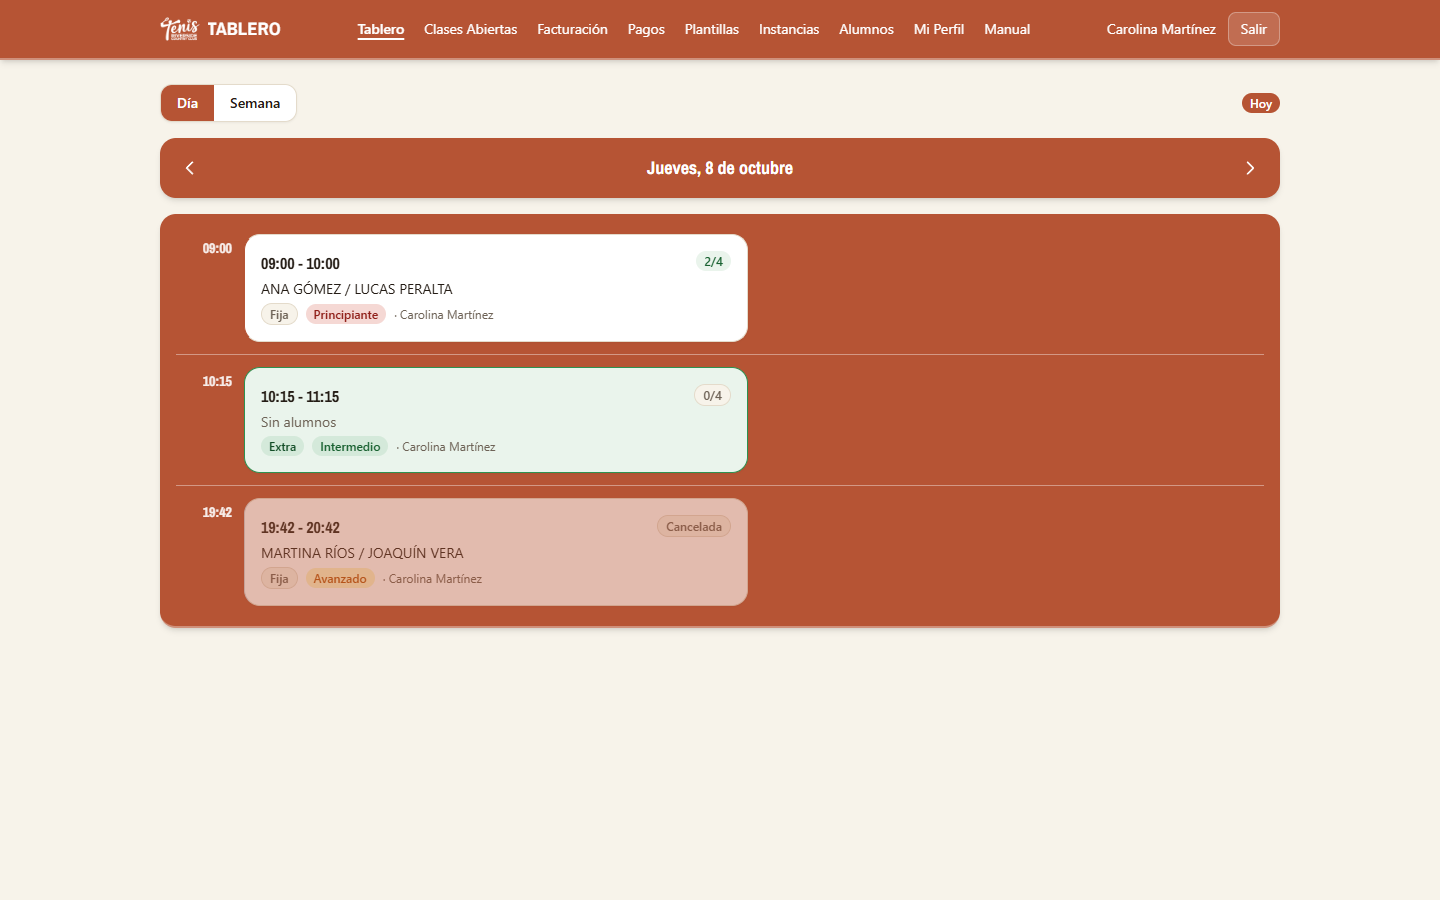
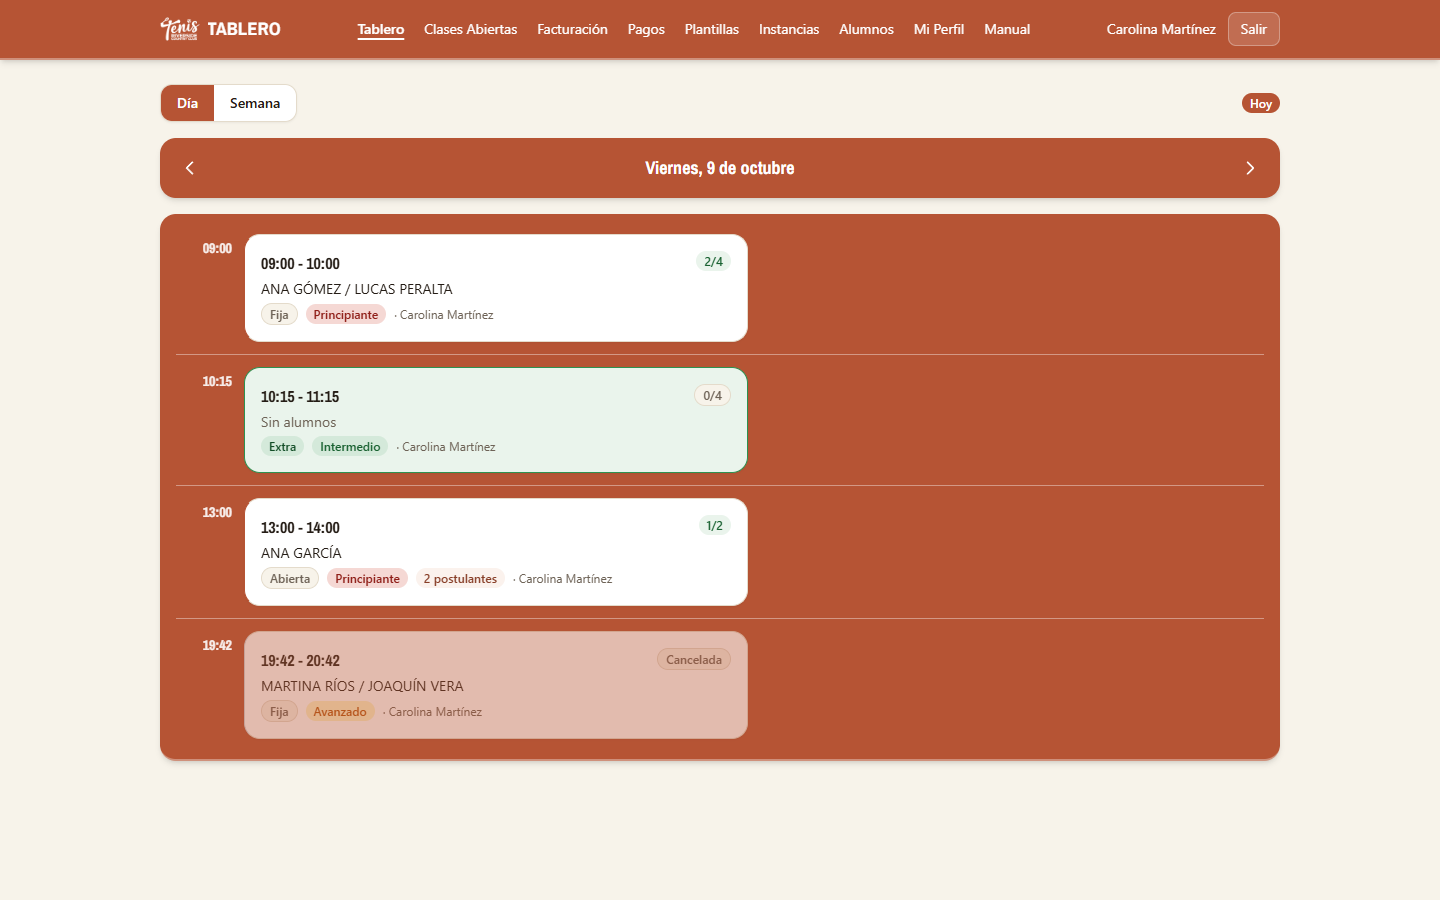
calendar

Changed region(s): [[0.0938, 0.5289, 0.9062, 0.8711], [0.4375, 0.1556, 0.5625, 0.2178]]

diff --git a/frontend/src/app/tablero/page.tsx b/frontend/src/app/tablero/page.tsx
@@ -21,6 +21,12 @@ interface Student {
   level: string | null;
 }
 
+interface PendingCandidate {
+  postulation_id: number;
+  student_id: number;
+  full_name: string;
+}
+
 interface Instance {
   id: number;
   template_id: number;
@@ -35,6 +41,7 @@ interface Instance {
   price: string;
   status: string;
   students: Student[];
+  pending?: PendingCandidate[];
 }
 
 const WEEKDAYS = ['Lunes', 'Martes', 'Miércoles', 'Jueves', 'Viernes', 'Sábado', 'Domingo'];
@@ -88,7 +95,7 @@ export default function TableroPage() {
   const [loading, setLoading] = useState(true);
   const [error, setError] = useState('');
   const [selectedInstance, setSelectedInstance] = useState<Instance | null>(null);
-  const [sheetView, setSheetView] = useState<'options' | 'students' | 'add'>('options');
+  const [sheetView, setSheetView] = useState<'options' | 'students' | 'add' | 'candidates'>('options');
   const [allStudents, setAllStudents] = useState<Student[]>([]);
   const [selectedStudentToAdd, setSelectedStudentToAdd] = useState('');
   const touchStartX = useRef<number | null>(null);
@@ -201,6 +208,37 @@ export default function TableroPage() {
     }
   };
 
+  // Issue 17: aceptar / rechazar / forzar un postulante desde el calendario
+  const handleCandidateAction = async (
+    postulationId: number,
+    action: 'accept' | 'reject' | 'override'
+  ) => {
+    if (!selectedInstance) return;
+    if (action !== 'reject' && !confirm('¿Confirmar la decisión sobre este postulante?')) return;
+
+    try {
+      const apiUrl = process.env.NEXT_PUBLIC_API_URL || '';
+      const res = await fetch(
+        `${apiUrl}/api/instances/open/${selectedInstance.id}/candidates/${postulationId}/${action}`,
+        {
+          method: 'POST',
+          headers: { 'Content-Type': 'application/json' },
+          credentials: 'include'
+        }
+      );
+      const data = await res.json();
+      if (!res.ok) {
+        alert(data.error || 'Error al responder la postulación');
+        return;
+      }
+      alert(data.message || 'Listo');
+      closeSheet();
+      fetchData(selectedDate, view);
+    } catch (err) {
+      alert('Error de conexión');
+    }
+  };
+
   const onTouchStart = (e: React.TouchEvent) => {
     touchStartX.current = e.touches[0].clientX;
   };
@@ -297,6 +335,8 @@ export default function TableroPage() {
     instancesByHour[instance.start_hour].push(instance);
   }
 
+  const pendingCount = (instance: Instance) => instance.pending?.length ?? 0;
+
   // Borde de tarjeta = cupo. Extras (lote 3): contorno verde uniforme por rama
   // propia en el render; acá solo cupo/cancelada.
   const cupoColor = (instance: Instance) => {
@@ -356,6 +396,11 @@ export default function TableroPage() {
             {MODALITIES[instance.modality] || instance.modality}
           </span>
           <LevelChip level={instance.level} />
+          {pendingCount(instance) > 0 && instance.status !== 'cancelada' && (
+            <span className="chip bg-primary-50 text-primary-700 font-semibold">
+              {pendingCount(instance)} postulante{pendingCount(instance) > 1 ? 's' : ''}
+            </span>
+          )}
           {instance.professor_name && (
             <span className="text-xs text-muted">· {instance.professor_name}</span>
           )}
@@ -498,6 +543,11 @@ export default function TableroPage() {
                           <span className={`ml-2 chip ${badge.className}`}>
                             {badge.text}
                           </span>
+                          {pendingCount(instance) > 0 && instance.status !== 'cancelada' && (
+                            <span className="ml-2 chip bg-primary-50 text-primary-700 font-semibold">
+                              {pendingCount(instance)} post.
+                            </span>
+                          )}
                         </button>
                       );
                     })}
@@ -609,12 +659,71 @@ export default function TableroPage() {
                   </button>
                 </form>
               </div>
+            ) : sheetView === 'candidates' ? (
+              <div>
+                <button
+                  onClick={() => setSheetView('options')}
+                  className="flex items-center gap-1 text-sm text-polvo font-semibold mb-3 hover:underline"
+                >
+                  <ChevronLeft className="w-4 h-4" />
+                  Volver
+                </button>
+                <p className="font-semibold mb-2">
+                  Postulantes ({selectedInstance.pending?.length ?? 0})
+                </p>
+                {(selectedInstance.pending?.length ?? 0) === 0 ? (
+                  <p className="text-sm text-muted">No hay postulaciones pendientes.</p>
+                ) : (
+                  <ul className="space-y-2">
+                    {(selectedInstance.pending || []).map((c) => (
+                      <li key={c.postulation_id} className="bg-cal rounded-xl p-3 border border-line">
+                        <p className="text-sm font-semibold">{c.full_name}</p>
+                        <p className="text-xs text-muted mb-2">Esperando confirmación</p>
+                        <div className="flex gap-2 flex-wrap">
+                          <button
+                            onClick={() => handleCandidateAction(c.postulation_id, 'accept')}
+                            className="bg-green-600 text-white text-xs font-semibold px-3 py-2.5 rounded hover:bg-green-700"
+                          >
+                            Aceptar
+                          </button>
+                          <button
+                            onClick={() => handleCandidateAction(c.postulation_id, 'reject')}
+                            className="bg-red-500 text-white text-xs font-semibold px-3 py-2.5 rounded hover:bg-red-600"
+                          >
+                            Rechazar
+                          </button>
+                          {selectedInstance.students.length >= selectedInstance.max_students && (
+                            <button
+                              onClick={() => handleCandidateAction(c.postulation_id, 'override')}
+                              title="Forzar aceptación a pesar de cupo lleno"
+                              className="bg-ink text-white text-xs font-semibold px-3 py-2.5 rounded hover:bg-black"
+                            >
+                              Forzar
+                            </button>
+                          )}
+                        </div>
+                      </li>
+                    ))}
+                  </ul>
+                )}
+              </div>
             ) : (
               <div className="space-y-2">
+                {selectedInstance.status === 'programada' &&
+                  (selectedInstance.pending?.length ?? 0) > 0 && (
+                    <button
+                      onClick={() => setSheetView('candidates')}
+                      className="w-full btn-primary py-3 text-sm"
+                    >
+                      Ver postulantes ({selectedInstance.pending?.length ?? 0})
+                    </button>
+                  )}
                 <button
                   onClick={() => setSheetView('students')}
                   className={
-                    selectedInstance.status === 'cancelada'
+                    selectedInstance.status === 'cancelada' ||
+                    (selectedInstance.status === 'programada' &&
+                      (selectedInstance.pending?.length ?? 0) > 0)
                       ? 'w-full text-left px-4 py-3 rounded-xl bg-cal hover:bg-line/60 text-sm font-medium'
                       : 'w-full btn-primary py-3 text-sm'
                   }

diff --git a/backend/src/services/instances.js b/backend/src/services/instances.js
@@ -35,6 +35,43 @@ async function attachStudents(rows) {
   return rows;
 }
 
+// Postulaciones pendientes por instancia (issue 17): el tablero le muestra al profe
+// que hay postulantes esperando confirmación y puede aceptarlos desde el calendario.
+// Va solo en enrichInstancesWithStudents (NO en attachStudents, para no pisar el
+// contador pending_candidates que /open calcula en su propio SELECT).
+async function attachPendingCandidates(rows) {
+  if (rows.length === 0) return rows;
+
+  const instanceIds = rows.map((r) => r.id);
+  const placeholders = instanceIds.map(() => '?').join(',');
+
+  const [links] = await db.query(
+    `SELECT p.instancia_id, p.id as postulation_id, a.id as student_id, a.nombre_completo as full_name
+     FROM postulaciones p
+     JOIN perfiles a ON p.alumno_id = a.id
+     WHERE p.instancia_id IN (${placeholders}) AND p.estado = 'pendiente'
+     ORDER BY p.postulada_en ASC`,
+    instanceIds
+  );
+
+  const pendingByInstance = {};
+  for (const link of links) {
+    if (!pendingByInstance[link.instancia_id]) {
+      pendingByInstance[link.instancia_id] = [];
+    }
+    pendingByInstance[link.instancia_id].push({
+      postulation_id: link.postulation_id,
+      student_id: link.student_id,
+      full_name: link.full_name
+    });
+  }
+
+  for (const row of rows) {
+    row.pending = pendingByInstance[row.id] || [];
+  }
+  return rows;
+}
+
 // Enriquecer instancias con sus alumnos (y profesor). Reutilizado por tablero e instancias.
 async function enrichInstancesWithStudents(instances) {
   if (instances.length === 0) return [];
@@ -54,7 +91,8 @@ async function enrichInstancesWithStudents(instances) {
     status: inst.status
   }));
 
-  return attachStudents(mapped);
+  await attachStudents(mapped);
+  return attachPendingCandidates(mapped);
 }
 
 // Genera instancias para un mes dado (YYYY-MM) basándose en las plantillas activas.

diff --git a/CONTEXT.md b/CONTEXT.md
@@ -60,7 +60,7 @@ Sistema para una profesora de tenis que administra clases, inscripciones y deuda
 - **Clase abierta/rotativa (ticket 07)**: la profe crea la instancia **ad-hoc** (fecha, franja, nivel, cupo, precio) sin plantilla recurrente. Como `instancias_clases.plantilla_id` es `NOT NULL`, la instancia se respalda con una **plantilla inactiva** (nunca genera instancias recurrentes). La clase aparece en el tablero de la profe y en **"Clases disponibles"** del alumno.
 - **Postulación a clase abierta (tickets 07/09)**: el alumno se postula desde "Clases disponibles" → fila en `postulaciones` con estado `pendiente`; la profe acepta/rechaza (desarrollado en el ticket 09). El estado de la postulación se muestra al alumno en la tarjeta de la clase (Pendiente / Inscripto / Lleno).
 - **Valores ENUM en BD**: las modalidades se almacenan como `fija` / `extra` / `abierta` y los estados como `programada` / `completada` / `cancelada` / `archivada` / `pendiente` / `aceptada` / `rechazada` / `lista_espera` (castellano, nunca `fixed` / `open`). El backend mapea columnas españolas a claves JSON en inglés (`fecha as instance_date`, `estado as status`, `nombre_completo as full_name`).
-- **Flujo de postulaciones (ticket 09)**: aceptar un candidato lo **inscribe al grupo automáticamente** (ocupa cupo). Rechazar lo manda a **lista de espera**. La profe tiene botón **Forzar/Override** para aceptar a pesar de deuda o cupo lleno. Si el cupo está lleno al postularse, la postulación va **directo a lista de espera**. El alumno puede **cancelar** su postulación mientras esté pendiente; tras `cancelada`/`rechazada` puede volver a postularse.
+- **Flujo de postulaciones (ticket 09)**: aceptar un candidato lo **inscribe al grupo automáticamente** (ocupa cupo). Rechazar lo manda a **lista de espera**. La profe tiene botón **Forzar/Override** para aceptar a pesar de deuda o cupo lleno. Si el cupo está lleno al postularse, la postulación va **directo a lista de espera**. El alumno puede **cancelar** su postulación mientras esté pendiente; tras `cancelada`/`rechazada` puede volver a postularse. **La profe ve los pendientes en el calendario** (issue 17): chip "N postulante(s)" en la tarjeta del tablero y acepta/rechaza desde el modal, sin ir a Clases Abiertas.
 - **Clase extra (ticket 10)**: misma mecánica de creación ad-hoc que la abierta (plantilla inactiva de respaldo + grupo "Grupo Extra"), modalidad `extra`, precio sugerido 50% de la clase habitual. Postulación igual que abierta. **Marcar asistencia en abierta/extra y "asistió" genera la deuda** (`clase_abierta`/`clase_extra`) por esa instancia (`/asistencias`).
 - **Facturación mensual (ticket 11)**: semi-automática — `GET /billing/preview` calcula alumnos × precio × clases fijas del mes sin escribir; la profe revisa y `POST /billing/generate` crea las deudas `mensualidad` (una por alumno/mes, `mes_facturacion`, vinculadas a `ciclos_facturacion`). Inscribir a un alumno a mitad de mes a una fija genera la deuda de mensualidad **al momento** (`/board/enroll`). Apertura de mes (`POST /billing/open`) cierra ciclos anteriores, y `GET /billing/debtors` lista a quién no pagó; `POST /billing/release-slots` libera los cupos de un deudor.
 - **Pagos (ticket 12)**: `POST /pagos` individual y `POST /pagos/batch` por lote (monto por alumno). El pago se aplica a la deuda pendiente más antigua (o a una `deuda_id` explícita), suma `monto_pagado` y recalcula `estado` (pendiente/parcial/pagada). Pago parcial deja diferencia como deuda. Desglose por mes + historial por alumno en `/pagos/student/:id` (visible por el propio alumno o admin/profesor). Resumen global por fecha en `/pagos/summary`.

diff --git a/.scratch/tenis-manager/issues/17-postulantes-en-calendario.md b/.scratch/tenis-manager/issues/17-postulantes-en-calendario.md
@@ -1,0 +1,23 @@
+# 17 — Postulantes en el calendario del profe: ver y aceptar desde el tablero
+
+**What to build:** cuando un alumno se postula a una clase abierta y queda `pendiente`, la profesora debe verlo **en el calendario (tablero)** — chip en la tarjeta de la clase — y poder **aceptarlo o rechazarlo desde ahí** (modal), sin ir a la página Clases Abiertas.
+
+**Blocked by:** —
+
+**Status:** done — finish review **ship** (2026-10-09)
+
+## Implementación
+
+- **Backend** (`backend/src/services/instances.js`): `enrichInstancesWithStudents` adjunta `pending: [{postulation_id, student_id, full_name}]` (solo `estado='pendiente'`) vía `attachPendingCandidates`. Alimenta `/api/board/day` y `/api/board/week` (también `/instances` y `/board/mine`, inofensivo). NO va en `attachStudents` para no pisar el contador `pending_candidates` que `/open` calcula en su SELECT.
+- **Frontend** (`frontend/src/app/tablero/page.tsx`):
+  - Tarjeta (día y semana): chip `bg-primary-50 text-primary-700` "N postulante(s)" (mismo chip que Clases Abiertas), solo si `status != cancelada`.
+  - Modal: vista nueva `candidates`. Con pendientes y clase `programada`, el **único feltro** pasa a "Ver postulantes (N)" y "Ver alumnos" baja a fila cal (regla de un solo feltro por modal).
+  - Vista postulantes: por cada candidato Aceptar (`bg-green-600`) / Rechazar (`bg-red-500`) y Forzar (`bg-ink`) solo con cupo lleno — mismos estilos que Clases Abiertas. Acciones → endpoints existentes `POST /api/instances/open/:id/candidates/:postulationId/{accept|reject|override}`; luego cierra el modal y refresca el calendario.
+  - Menores de finish review aplicados: demote de "Ver alumnos" condicionado a `programada` (evita modal sin feltro en `completada`+pending) y `py-2.5` en botones de candidato (touch target).
+
+## Verificación
+
+- `node --check` backend OK; `npm.cmd run build` OK; detect `[]`.
+- Finish review: **`disposition: ship`** (sin material fixes; 2 minors aplicados, nits quedan como están).
+- Capturas en `.impeccable/review/` (mock API local, evidencia declarada): `desktop`, `tablero-modal-pending-*`, `tablero-modal-candidates-pending-*`, `tablero-week-*`.
+- Flujos reales contra BD → verificar en Render tras push (postular como alumno → ver chip en tablero → aceptar → alumno aparece inscripto).

diff --git a/.scratch/tenis-manager/handoff.md b/.scratch/tenis-manager/handoff.md
@@ -20,6 +20,8 @@ VerificaciÃ³n: `node --check` (7 archivos) OK, `npm.cmd run build` OK, detect 
 
 **Issue 16 (2026-10-09, IMPLEMENTADO, sin commitear)**: `16-deuda-mes-en-curse-hasta-20.md` — gracia de deuda del mes en curso hasta el día 20 inclusive (hora Argentina; el 21 bloquea con el mensaje actual sin cambios); deuda de meses anteriores bloquea siempre; saldo a favor cubre primero la vieja. Fix de seguridad: `POST /open/:id/postulate` ya NO acepta `force` del body del alumno (antes permitía saltarse el chequeo de deuda); override legítimo solo en endpoints de la profe. Archivos: `backend/src/routes/instances.js`, `CONTEXT.md`. Verificado: `node --check` sweep OK + test de lógica 11/11; flujos reales en Render tras push. Falta commit del usuario.
 
+**Issue 17 (2026-10-09, IMPLEMENTADO, sin commitear)**: `17-postulantes-en-calendario.md` — el tablero del profe muestra chip `N postulante(s)` en la tarjeta (día y semana) cuando hay postulaciones `pendiente`; el modal abre vista de candidatos con Aceptar/Rechazar (+Forzar con cupo lleno), reutilizando los endpoints existentes `/open/:id/candidates/:id/{accept,reject,override}`. Backend: `attachPendingCandidates` en `services/instances.js` (campo `pending` en day/week). Un solo feltro por modal: con pendientes, `Ver postulantes` es el feltro y `Ver alumnos` baja a fila cal. Finish review **ship** (2 minors aplicados: demote condicionado a programada, py-2.5 en botones). Verificado con mock local (capturas frescas) + detect `[]` + build OK; flujos reales en Render tras push. Quedan sin commitear: issues 16 + 17.
+
 **Pendientes menores conocidos**: seed-demo.sql sin ejecutar; SMTP sin credenciales; fase 5 (centrado calendario PC); confirm() nativos; gray/emerald/amber fuera de paleta en pÃ¡ginas no capturadas; registro pÃºblico acepta role del body.
 
 ---
